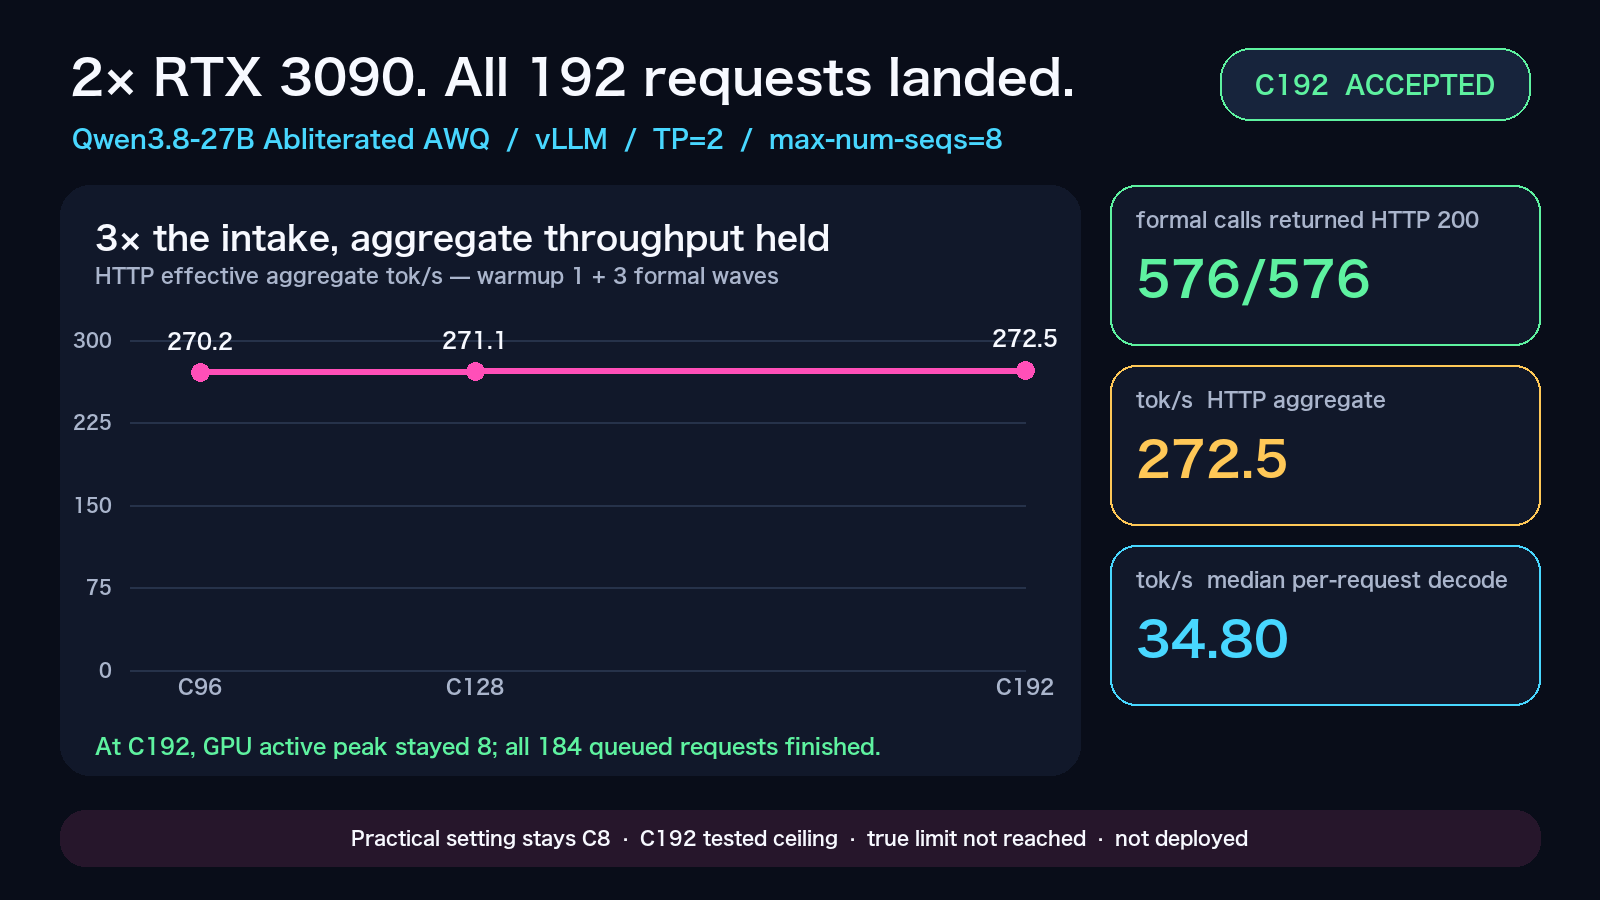
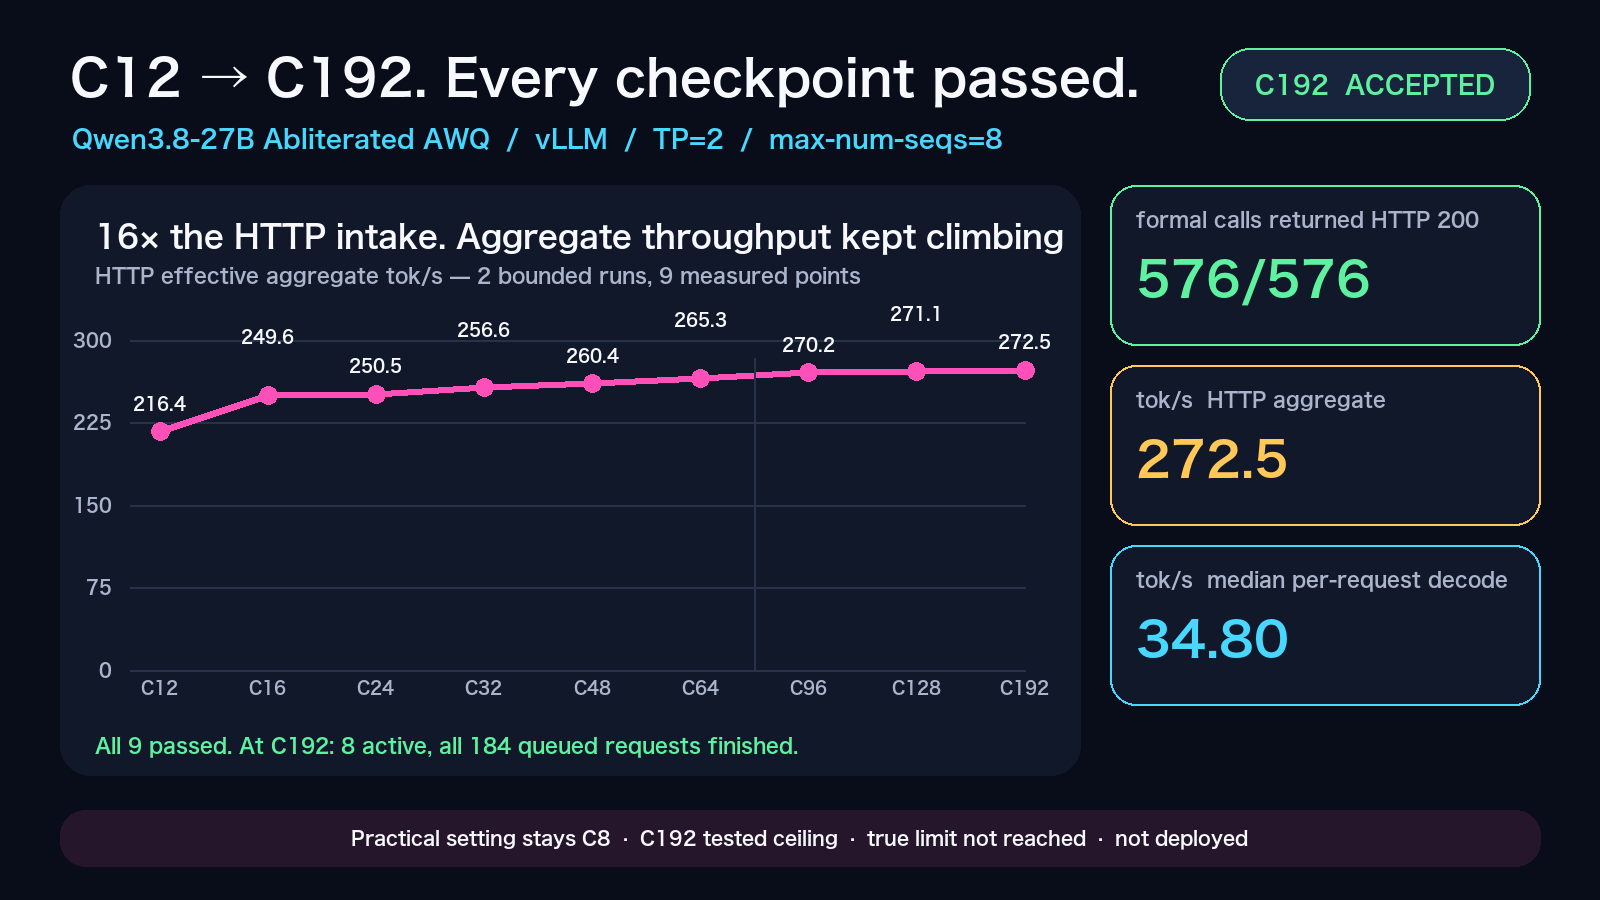
Consolidate C12-C192 result cards per model-lab PR #134 (#2)

diff --git a/README.md b/README.md
@@ -179,11 +179,13 @@ Full per-point data: [`data/http_concurrency_ladder_20260901.json`](data/http_co
 
 The chart above is from the earlier **seqs=4** measurement wave. The C8 HTTP aggregate shown in that image (154.088 tok/s) is a **historical** value; see [Historical measurement](#historical-measurement-superseded-seqs4-config--do-not-use-as-current-recommendation) below. Do not treat it as the current recommended setting.
 
-![HTTP C192 admission result card (Japanese)](visualizations/qwen38-3090x2-http-c192-x-card.png)
+These two cards were updated on 2026-09-02 to a consolidated view spanning all nine measured points, C12 through C192, combining the Issue #109 and Issue #128 measurement waves in one chart with a vertical line marking the run boundary between them. Underlying numbers are unchanged from the tables above.
 
-![HTTP C192 admission result card (English)](visualizations/qwen38-3090x2-http-c192-x-card-en.png)
+![HTTP admission result card, C12 through C192 (Japanese)](visualizations/qwen38-3090x2-http-c192-x-card.png)
 
-Historical C64 result cards (superseded by C192 confirmation above):
+![HTTP admission result card, C12 through C192 (English)](visualizations/qwen38-3090x2-http-c192-x-card-en.png)
+
+Historical single-run C64-only result cards (superseded by the consolidated C12–C192 card above):
 
 ![HTTP C64 admission result card (Japanese, historical)](visualizations/qwen38-3090x2-http-c64-x-card.png)
 
@@ -284,5 +286,6 @@ If child worker processes remain, terminate the parent first; avoid killing unre
 - The serving engine is [vLLM](https://github.com/vllm-project/vllm); verify the applicable engine license from its upstream source.
 - Benchmark measurements cited here come from model-lab PR #94 (`reports/out/3090_qwen38_speed_wave_20260831_0620/report.md`, 2026-08-31).
 - HTTP concurrency ladder measurements (C8 practical, C12–C64 historical admission, C96–C192 admission) additionally come from model-lab Issue #97 (`reports/out/3090_qwen38_parallel_issue97_20260831/report.md`, PR #110), Issue #109 (`reports/out/3090_qwen38_http_issue109_20260901/report.md`, PR #126), and Issue #128 (`reports/out/3090_qwen38_http_issue128_20260901/report.md`, PR #131), all merged to `main`.
+- The consolidated C12–C192 result cards above come from model-lab PR #134 (chart-only update, no new measurement data), merged to `main` on 2026-09-02.
 
 This recipe documentation does not redistribute model weights. Select a documentation license before public release if you fork this README.
